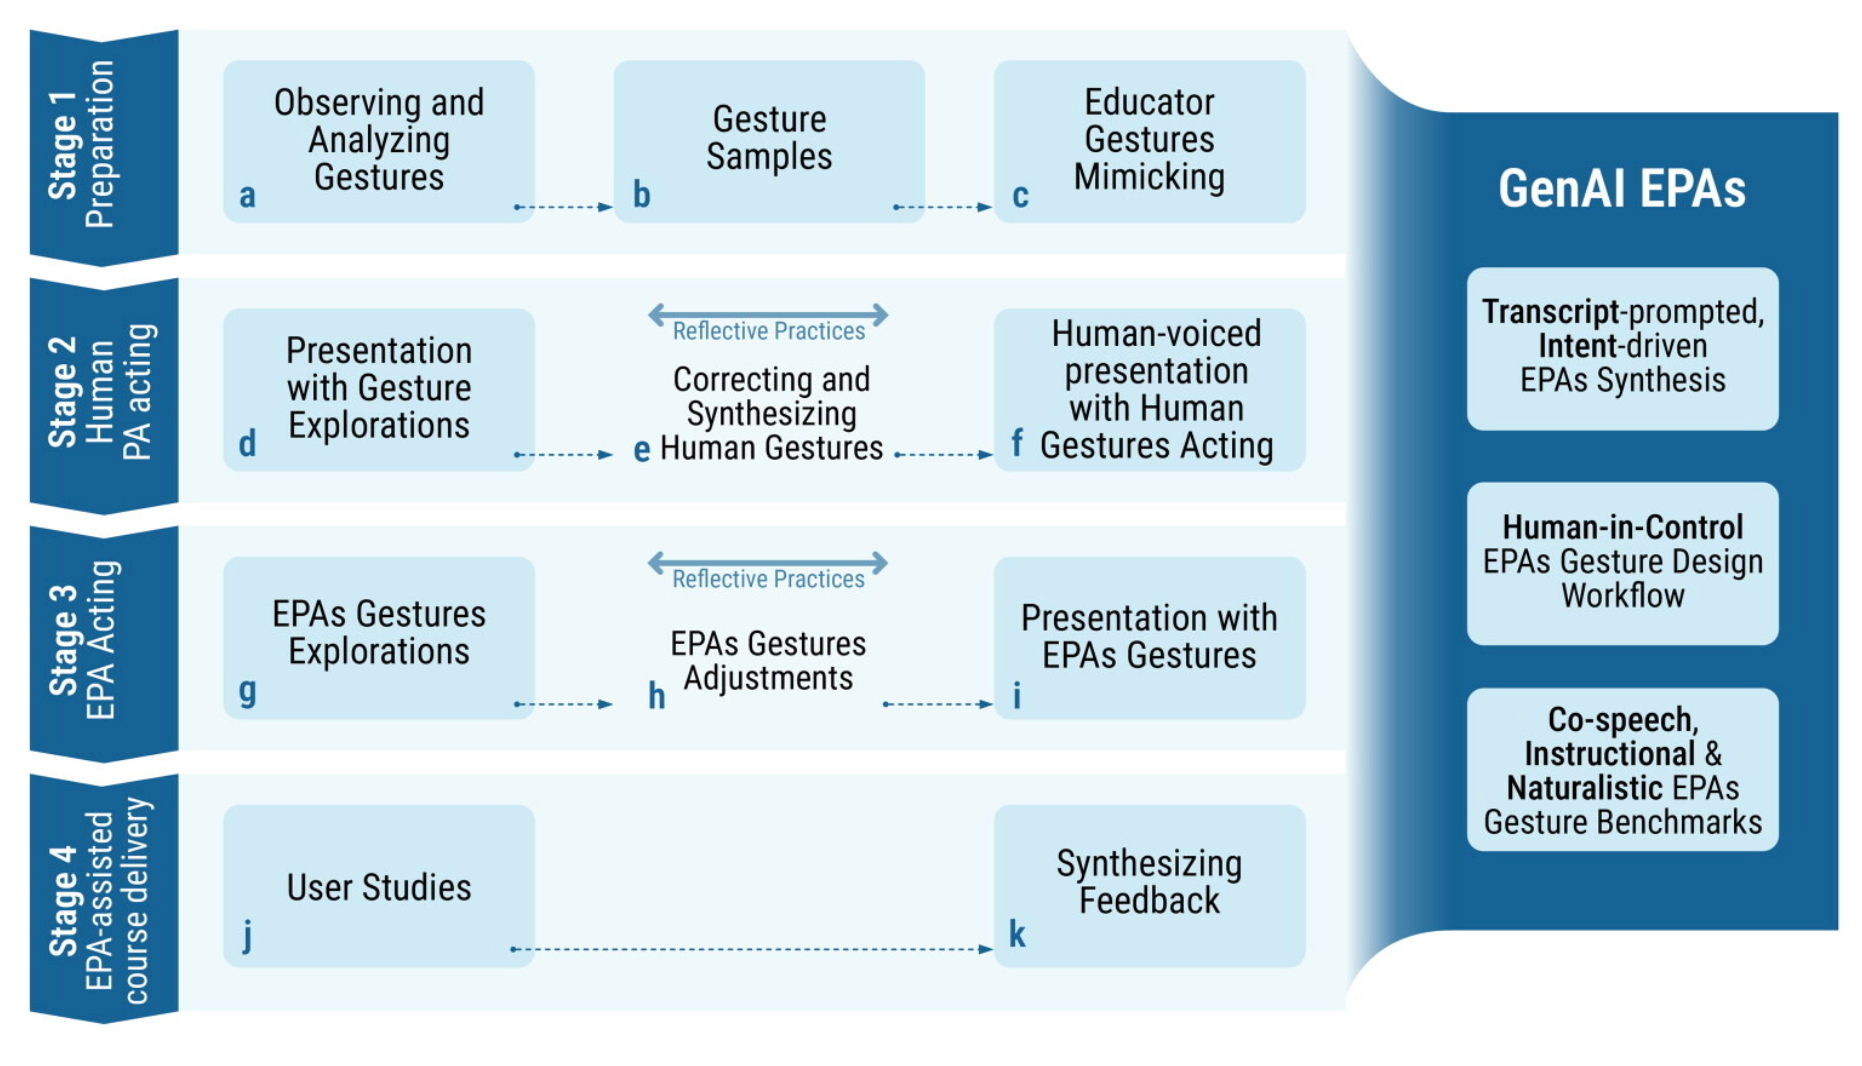
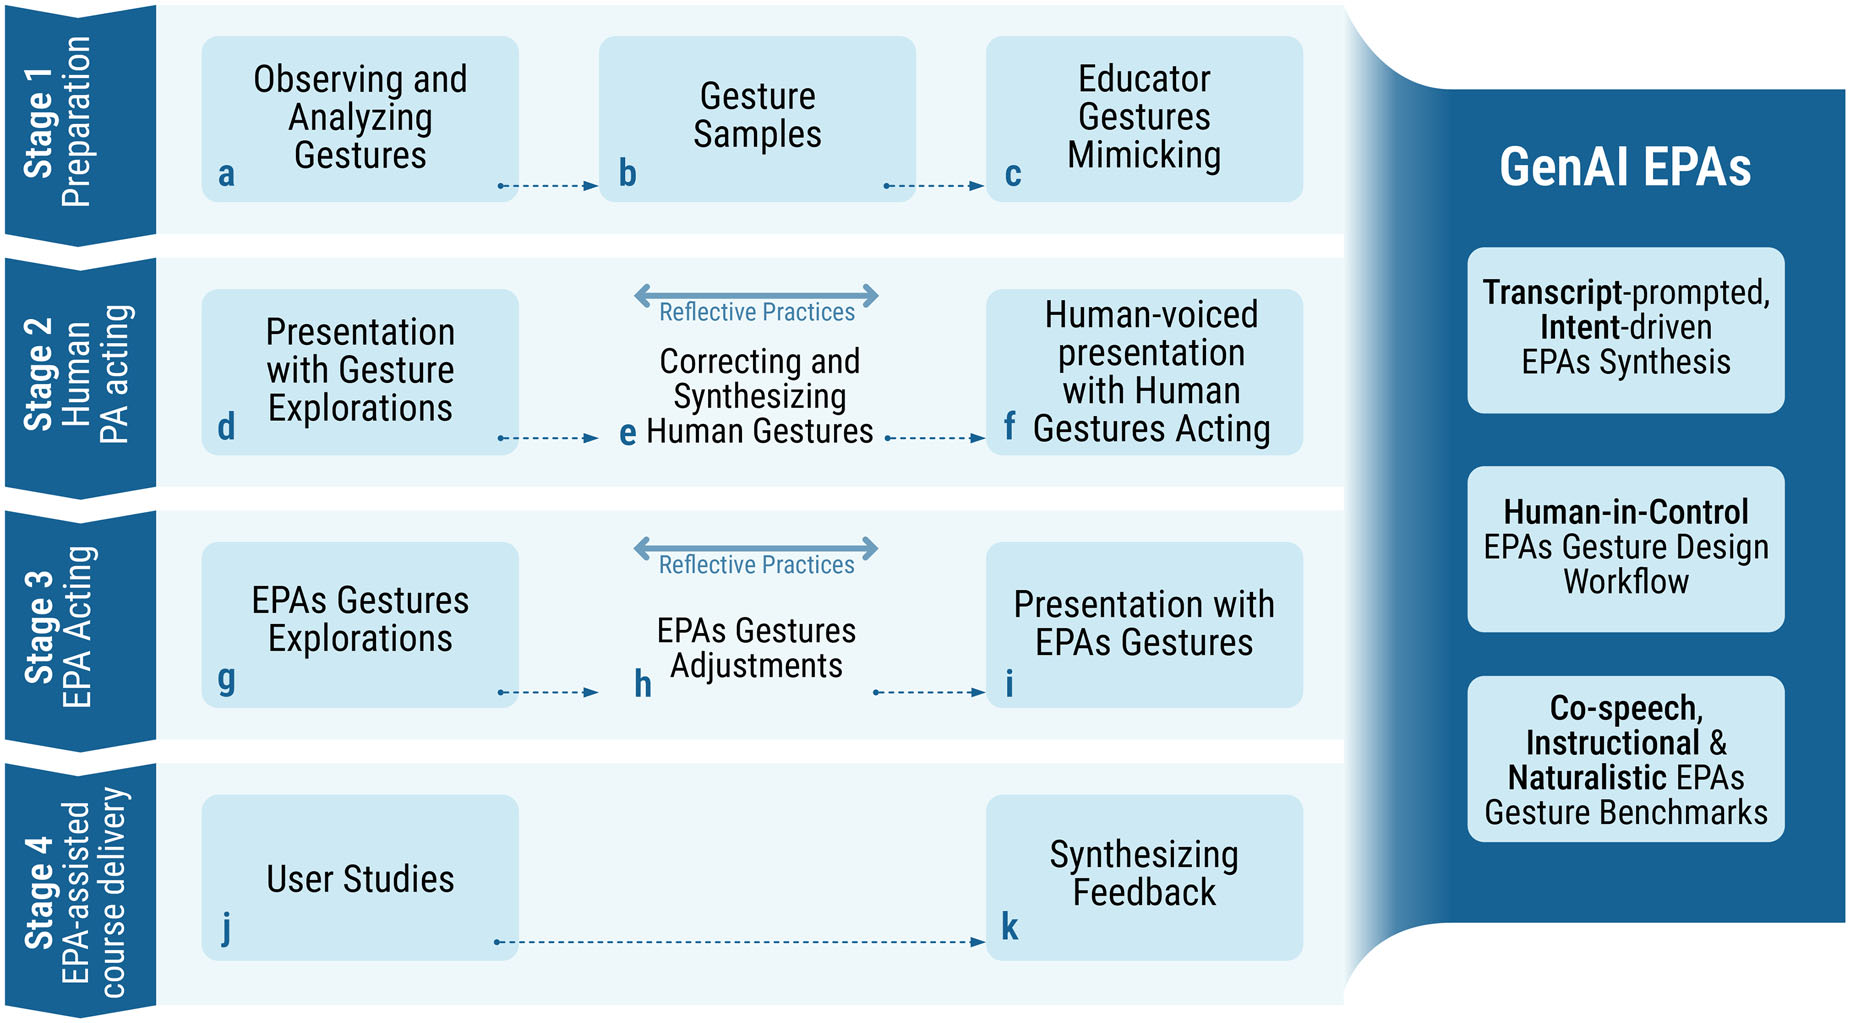
Use IJHCI Figure 3 as the project thumbnail and add Figures 1 and 4–7 under the abstract.

Changed region(s): [[0.0, 0.0, 1.0, 1.0], [0.3389, 0.5152, 0.493, 0.697]]

diff --git a/content/projects/0_IJHCI2026/index.md b/content/projects/0_IJHCI2026/index.md
@@ -5,7 +5,7 @@ description: "Human-centered framework for designing and evaluating instructiona
 tags: ["ResearchProject", "Embodied AI", "Gesture", "Pedagogical Agent", "Framework"]
 cover:
     image: "images/cover.png"
-    alt: "Four-stage framework for designing instructional gestures in embodied pedagogical agents"
+    alt: "Figure 3. Visual overview of the entire pedagogical agent (PA) gestures design procedures."
     caption: ""
 
 author: "Wei Lai \U0001F4DA"
@@ -18,11 +18,19 @@ hidden: false
 > **Authors:** Lai Wei, Pangrui Xing, Kenny K. N. Chow, Stephen Jia Wang
 > **Status:** Published, *International Journal of Human–Computer Interaction* (SSCI, Q1; IF 4.9)
 
-{{< figure width=100% align=center src="images/cover.png" caption="Visual overview of the pedagogical-agent gesture design procedures: Preparation, Human PA acting, EPA acting, and EPA-assisted course delivery." >}}
-
 > ### Abstract
 
 Generative AI expands opportunities for embodied agents in HCI, yet a gap persists between human-centered AI principles and practical design methods, particularly for pedagogical agents’ (PAs) co-speech gestures. Automated text-to-gesture systems lack the instructional nuance needed for effective teaching. To address this, we used a Research-through-Design approach to develop a human-centered framework that translates pedagogical intent into gesture specifications for embodied AI teachers. The framework includes four iterative stages: Preparation, which analyzes gesture patterns and instructional functions; Human PA Acting, where educators and designers rehearse gestures through performance; Embodied PA Acting, which transfers human motion to agents using video-based pose estimation; and EPA-assisted Course Delivery, which evaluates student experiences through interviews. Findings indicate that these gestures enhanced students’ perception of the PA’s professionalism, approachability, and instructional rhythm, while boosting overall engagement. This work contributes a design framework and insights for pedagogical gesture design, and exploratory guidance for generative-AI prompting.
+
+{{< figure width=100% align=center src="images/fig1.png" caption="Figure 1. Key steps in our human-centered design methodology: (A) gesture analysis: Understanding teachers’ intents by observing a senior teacher’s gestures. (B) Educator’s improvised gestures: Capturing tacit instructional knowledge through performance. (C) PA designer mirrors educator: Facilitating interdisciplinary collaboration and refinement. (D) Human-to-EPA transformation: Upper body motions extracted via DeepMotion for 3D animation. (E) EPA and teaching materials integration: 3D animation embedded alongside teaching materials." >}}
+
+{{< figure width=100% align=center src="images/fig4.png" caption="Figure 4. Stage 1: Preparation." >}}
+
+{{< figure width=100% align=center src="images/fig5.png" caption="Figure 5. Stage 2: Human PA acting." >}}
+
+{{< figure width=100% align=center src="images/fig6.png" caption="Figure 6. Stage 3: EPA acting." >}}
+
+{{< figure width=100% align=center src="images/fig7.png" caption="Figure 7. Stage 4: EPA-assisted course delivery." >}}
 
 **Paper:** [Grounding Pedagogical Intents in Embodied AI Teachers: A Human-Centered Framework for Designing and Evaluating Instructional Gestures](https://www.tandfonline.com/doi/full/10.1080/10447318.2026.2664083)
 
